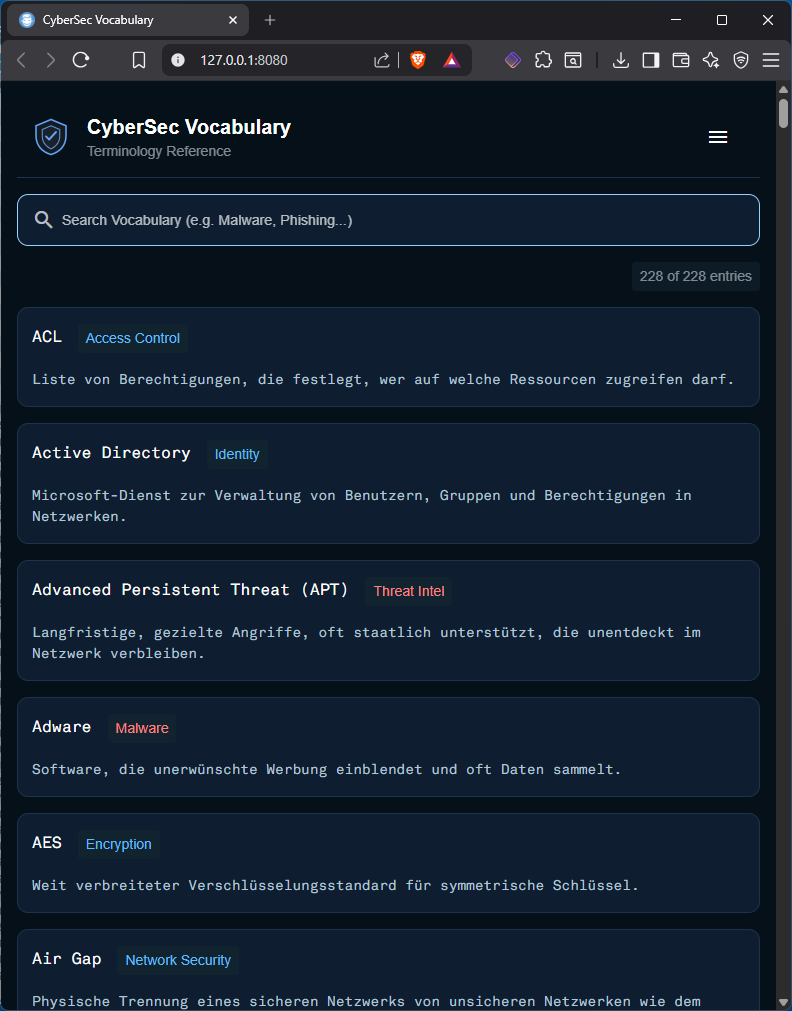
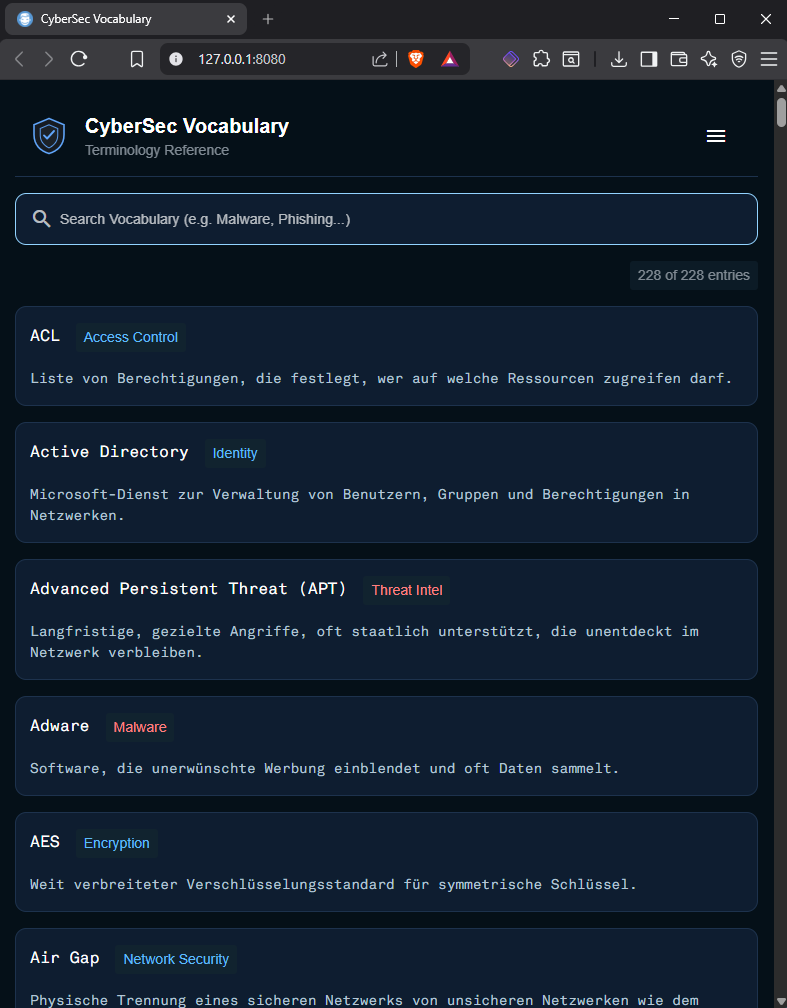
Continue work on CyberVocab

diff --git a/README.md b/README.md
@@ -1,10 +1,10 @@
 # CyberVocab
 
 A vocabulary-browser frontend with convenient query, update, import and export functionality.
-User may call Claude for definitions of terms not contained within the data store. 
-Automatically suggests new entries to be added via Google's suggestion API.
+Claude can be called for definitions of terms not contained within the data store. 
+Automatically suggests new terms to be added via Google's Suggestions-API.
 
-![Screenshot](./CyberVocab_Screenshot.png)
+![Screenshot](./Screenshot.png)
 
 # Installation
 